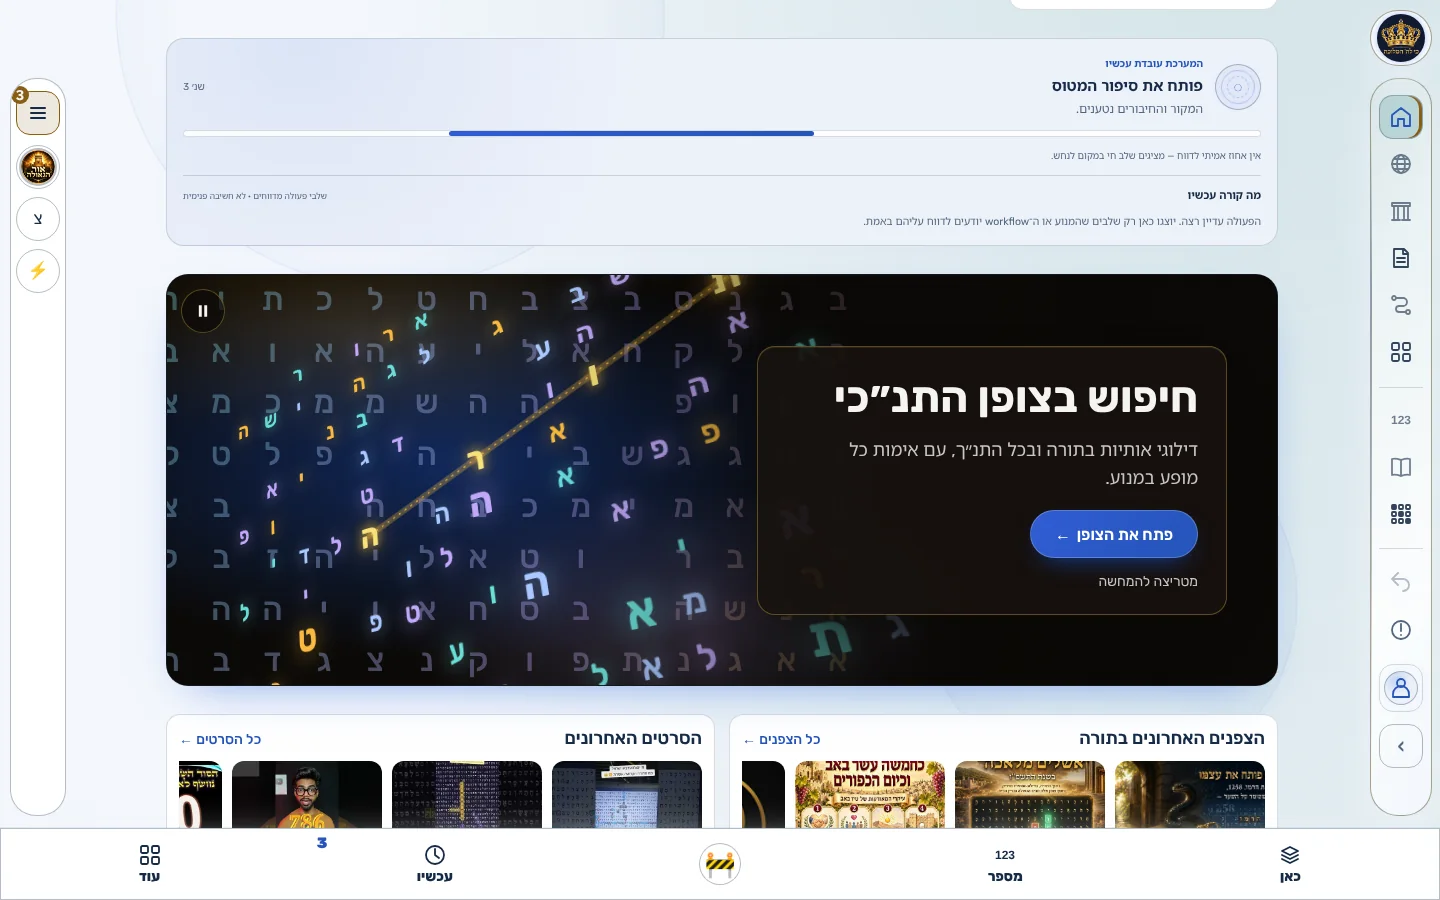
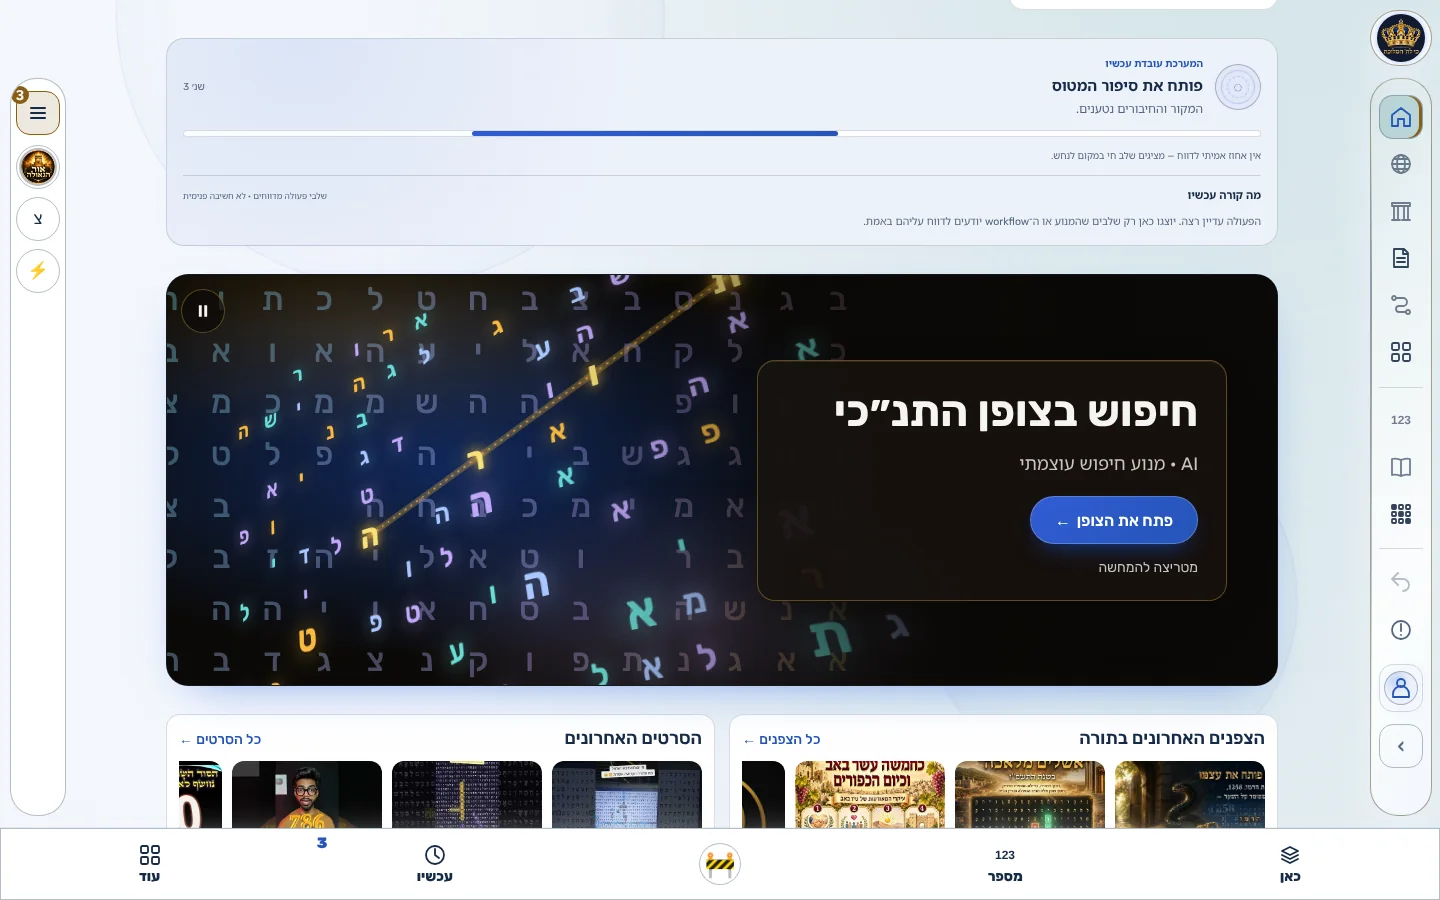
ELS home card: use the subtitle exactly as specified (AI · מנוע חיפוש עוצמתי)
Explicit ZURIEL instruction. The caveat (ELS page states no AI guessing)
stays recorded in the receipt and a static test. Re-ran static tests,
real-browser acceptance and the full build; refreshed screenshots.

Claude-Session: https://claude.ai/code/session_01H7739N8zAMMm674zbKYa17

Changed region(s): [[0.5312, 0.3733, 0.8438, 0.6533], [0.5625, 0.1244, 0.5938, 0.1556], [0.3125, 0.1244, 0.3438, 0.1556]]

diff --git a/src/components/experience2029/ElsRotatingMatrixCard2029.jsx b/src/components/experience2029/ElsRotatingMatrixCard2029.jsx
@@ -11,8 +11,9 @@ import { DESIGN_V2_PALETTES } from "../../lib/palette.js";
 import "./elsRotatingMatrixCard2029.css";
 
 export const ELS_CARD_TITLE = "חיפוש בצופן התנ״כי";
-// A factual sentence. The ELS page itself states "no AI guessing"; AI is not part of this capability.
-export const ELS_CARD_SENTENCE = "דילוגי אותיות בתורה ובכל התנ״ך, עם אימות כל מופע במנוע.";
+// Subtitle exactly as specified by ZURIEL (Human Gate, 31.10.2026). Recorded caveat: the existing ELS page states
+// "בלי ניחוש של AI" for its deterministic engine; the owner chose this wording explicitly.
+export const ELS_CARD_SENTENCE = "AI · מנוע חיפוש עוצמתי";
 export const ELS_CARD_ACTION = "פתח את הצופן";
 export const ELS_CARD_NOTE = "מטריצה להמחשה";
 export const ELS_CARD_HREF = "/code";

diff --git a/docs/reviews/els-home-rotating-matrix-card-20261031.md b/docs/reviews/els-home-rotating-matrix-card-20261031.md
@@ -17,7 +17,7 @@ existing Home owner; this scope was a bounded component plus one slot and one ca
 A full-width entrance card between the existing world story and the cipher/video strips:
 
 - **Two foci.** (1) A softly swaying, lit Hebrew letter matrix with one golden thread through four letters
-  (an illustrative equal-step line, *not* a result). (2) A dark live panel: title, one factual sentence, the
+  (an illustrative equal-step line, *not* a result). (2) A dark live panel: title, the subtitle, the
   `פתח את הצופן` action to the existing `/code` route, and the note `מטריצה להמחשה`.
 - **Depth.** A dim flat far layer stays still behind a lit near layer that sways in 3D (`rotateX/Y/Z`, 46 s,
   alternate). The relative motion is the depth cue; in the static / reduced-motion pose the tilt still shows it.
@@ -25,14 +25,15 @@ A full-width entrance card between the existing world story and the cipher/video
   text/controls. The matrix is `aria-hidden` decoration drawn from ~220 spans — no image, no new asset.
 - **Layout.** Wide (≥720px container): panel on the start edge over the matrix, 412px minimum height.
   Narrow: matrix on top at a fixed 5:4 ratio, panel overlapping its lower edge. Heights are fixed per state.
-- **Copy.** Title `חיפוש בצופן התנ״כי`; sentence `דילוגי אותיות בתורה ובכל התנ״ך, עם אימות כל מופע במנוע.`
+- **Copy.** Title `חיפוש בצופן התנ״כי`; subtitle `AI · מנוע חיפוש עוצמתי` (exactly as specified by ZURIEL).
 
 ### Decisions for ZURIEL (flagged, reversible)
 
-1. **The suggested subtitle `AI · מנוע חיפוש עוצמתי` is not used.** It was offered "only if it matches the
-   available capability". It does not: the existing ELS guided page states `בלי ניחוש של AI`; the engine is
-   deterministic and AI appears only through Raziel, which has its own lock. The sentence above is limited to
-   what the UI states (`כל התנ״ך` scope option, `מאמת כל מופע`). Wording remains ZURIEL's to approve.
+1. **Subtitle `AI · מנוע חיפוש עוצמתי` — used exactly as ZURIEL instructed (31.10.2026, after the first version).**
+   The first version replaced it with a factual sentence because the handoff said "only if it matches the
+   available capability" and the existing ELS guided page states `בלי ניחוש של AI` (deterministic engine; AI only
+   through Raziel, which has its own lock). ZURIEL then explicitly directed the original wording, so it is the
+   shipped copy. The caveat stays recorded here and in a static test; this is a product-claim decision of the Human Gate.
 2. **A bounded "Night window" in all three presets.** The user asked for a dark panel that guarantees
    legibility over a luminous matrix. The card therefore reads the *Night* roles from the palette owner
    (`DESIGN_V2_PALETTES.dark`, no literal colours) and stays dark in Day and Parchment, framed with the host
@@ -76,7 +77,7 @@ ELS engine/pages, `/code` route.
 - `node --test test/els-home-card-2029.test.mjs` — 11/11.
 - `test/els-home-card-2029.browser.mjs` — 0 failures: widths 320/390/768/1440 × Day/Parchment/Night.
   No horizontal page/card overflow; card inside viewport; height stable (±1px between samples);
-  title Rubik 650–780 (700), line-height ≥1.04; sentence Noto Sans Hebrew ≥16px (≥18px desktop); note ≥14px;
+  title Rubik 650–780 (700), line-height ≥1.04; subtitle Noto Sans Hebrew ≥16px (≥18px desktop); note ≥14px;
   action ≥44px tall/wide and ≥16px; pause ≥44×44; worst-case contrast ≥4.5 for title/sentence/note and for the
   button label on every gradient stop; real fonts loaded; no page errors; exactly one running animation.
   Reduced motion (OS) at 390/1440: nothing animates, static tilted pose kept, pause control not offered.
@@ -138,7 +139,7 @@ Reading these honestly:
   integration; any hosted LCP/CLS/GPU result must be recorded separately.
 - No real-device (GPU, iOS Safari) check; the `container` query units (`cqw/cqi`) and `color-mix` need a modern
   engine (same baseline as the existing Home CSS).
-- Copy and the dark-in-all-presets decision await ZURIEL (Human Gate). `lock_els` was open in the live table at
+- The dark-in-all-presets decision awaits ZURIEL (Human Gate); the subtitle wording is ZURIEL's explicit instruction. `lock_els` was open in the live table at
   test time; production behaviour depends on that flag, never on this component.
 
 ## Re-run
